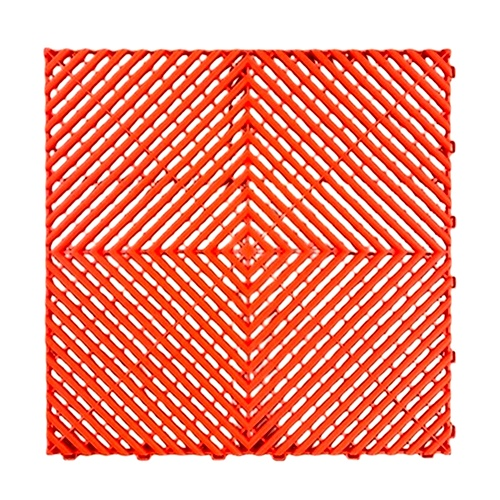
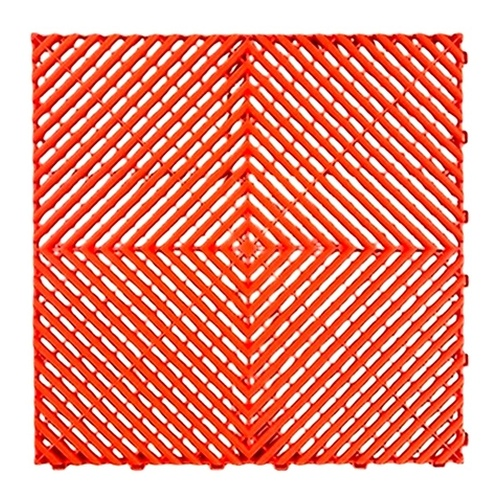
preview: igualar tamano a moneda y enderezar trama/rejilla

diff --git a/calculadora-baldosas/sw.js b/calculadora-baldosas/sw.js
@@ -1,4 +1,4 @@
-const CACHE = 'nexa-v109-trama-fix';
+const CACHE = 'nexa-v110-size-match-moneda';
 const ASSETS = [
   './',
   './index.html',
